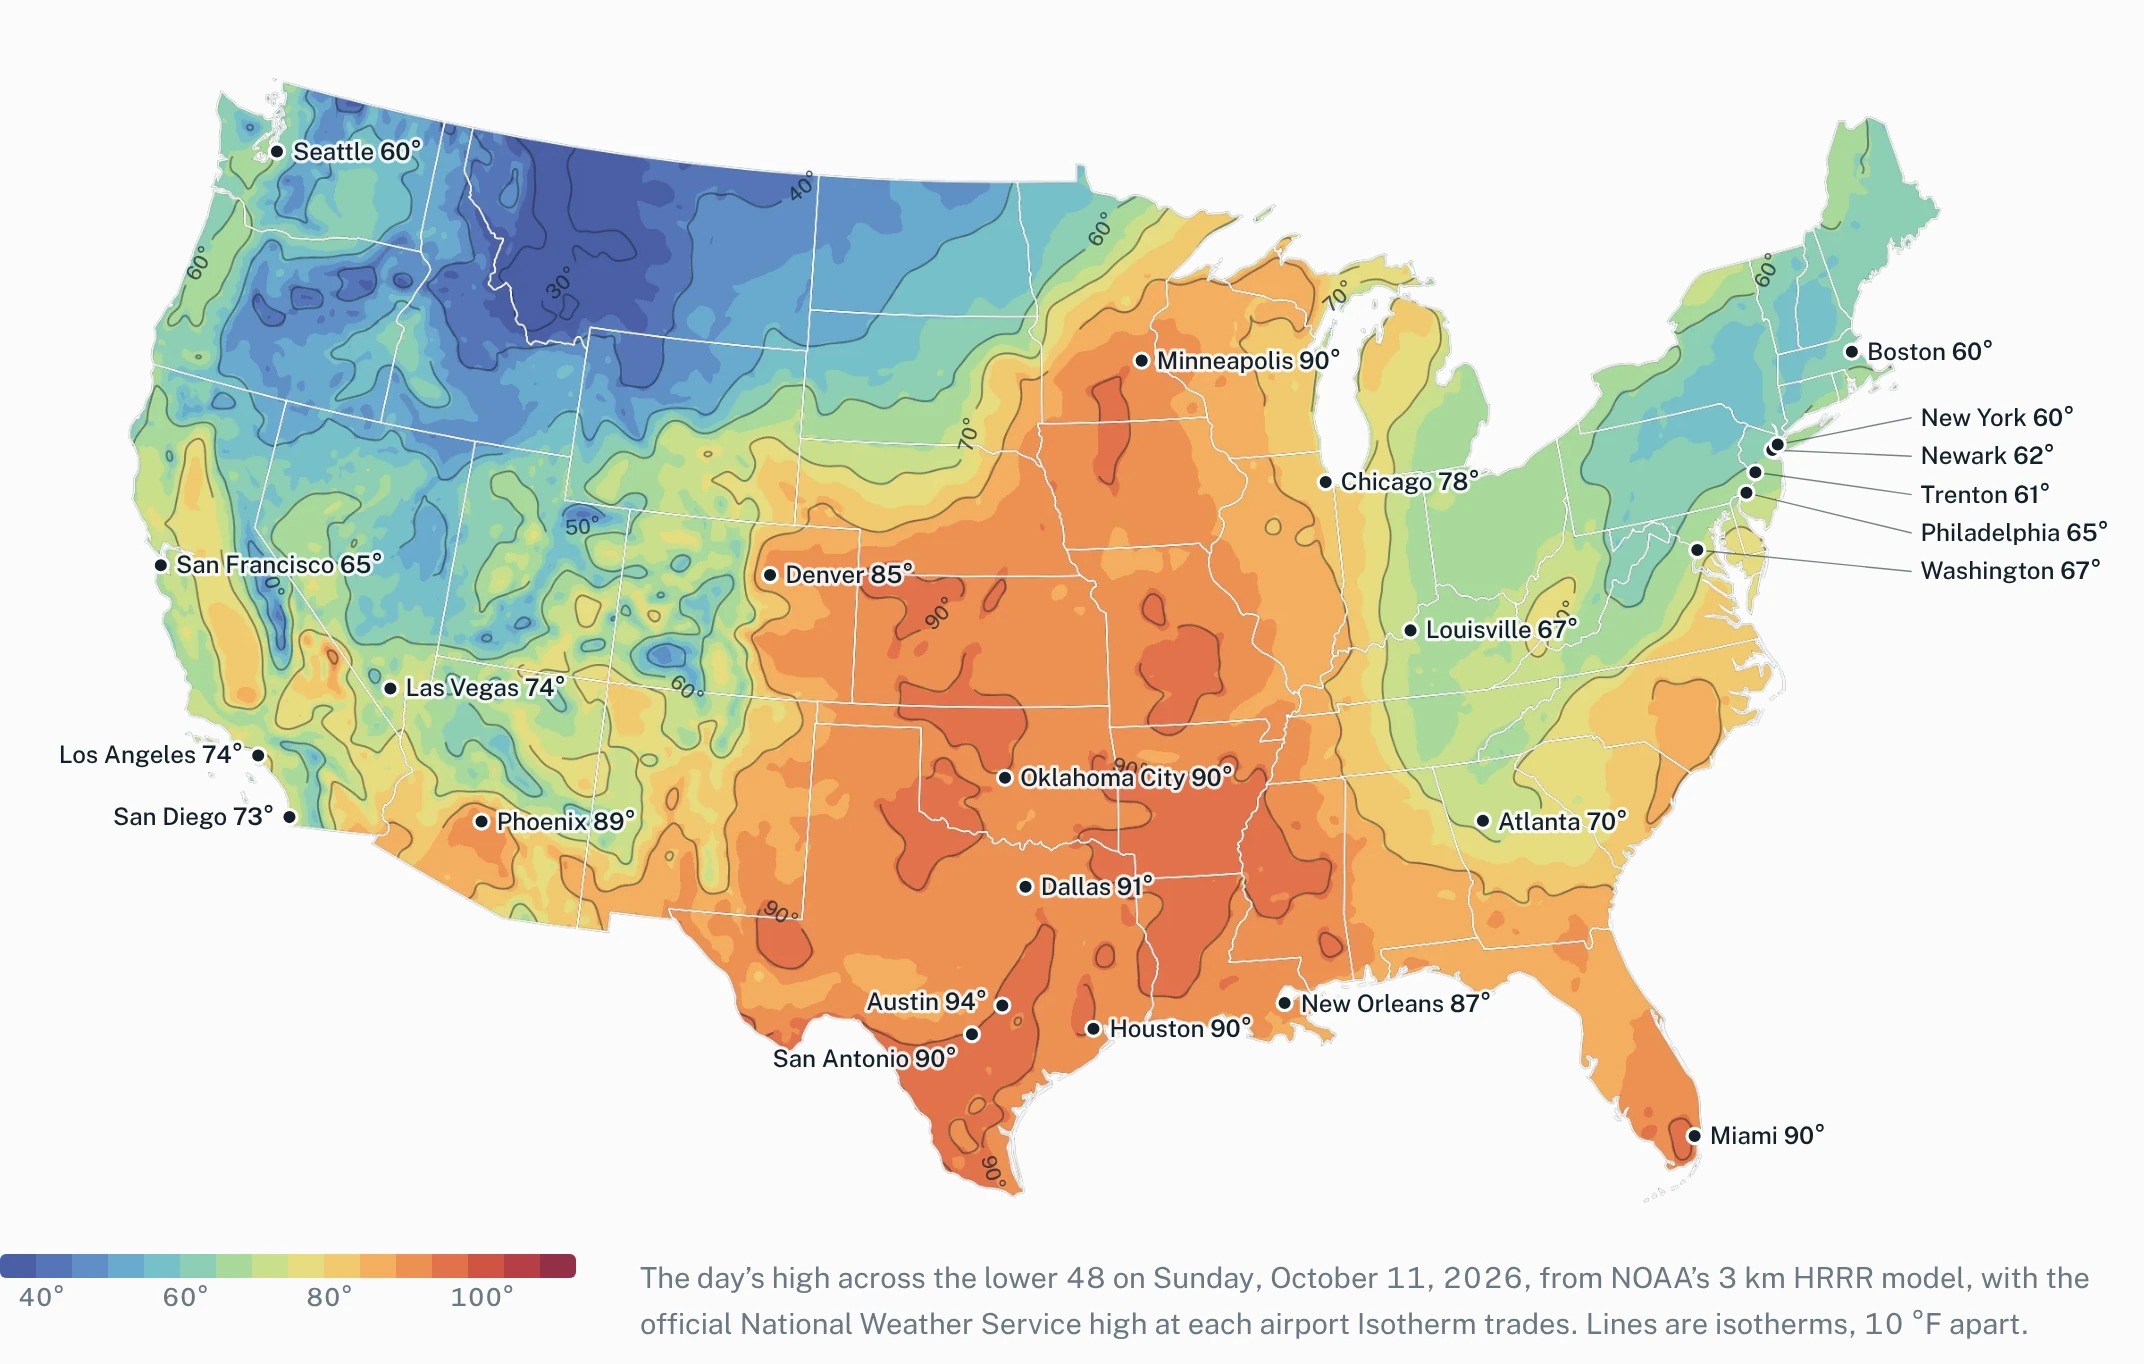
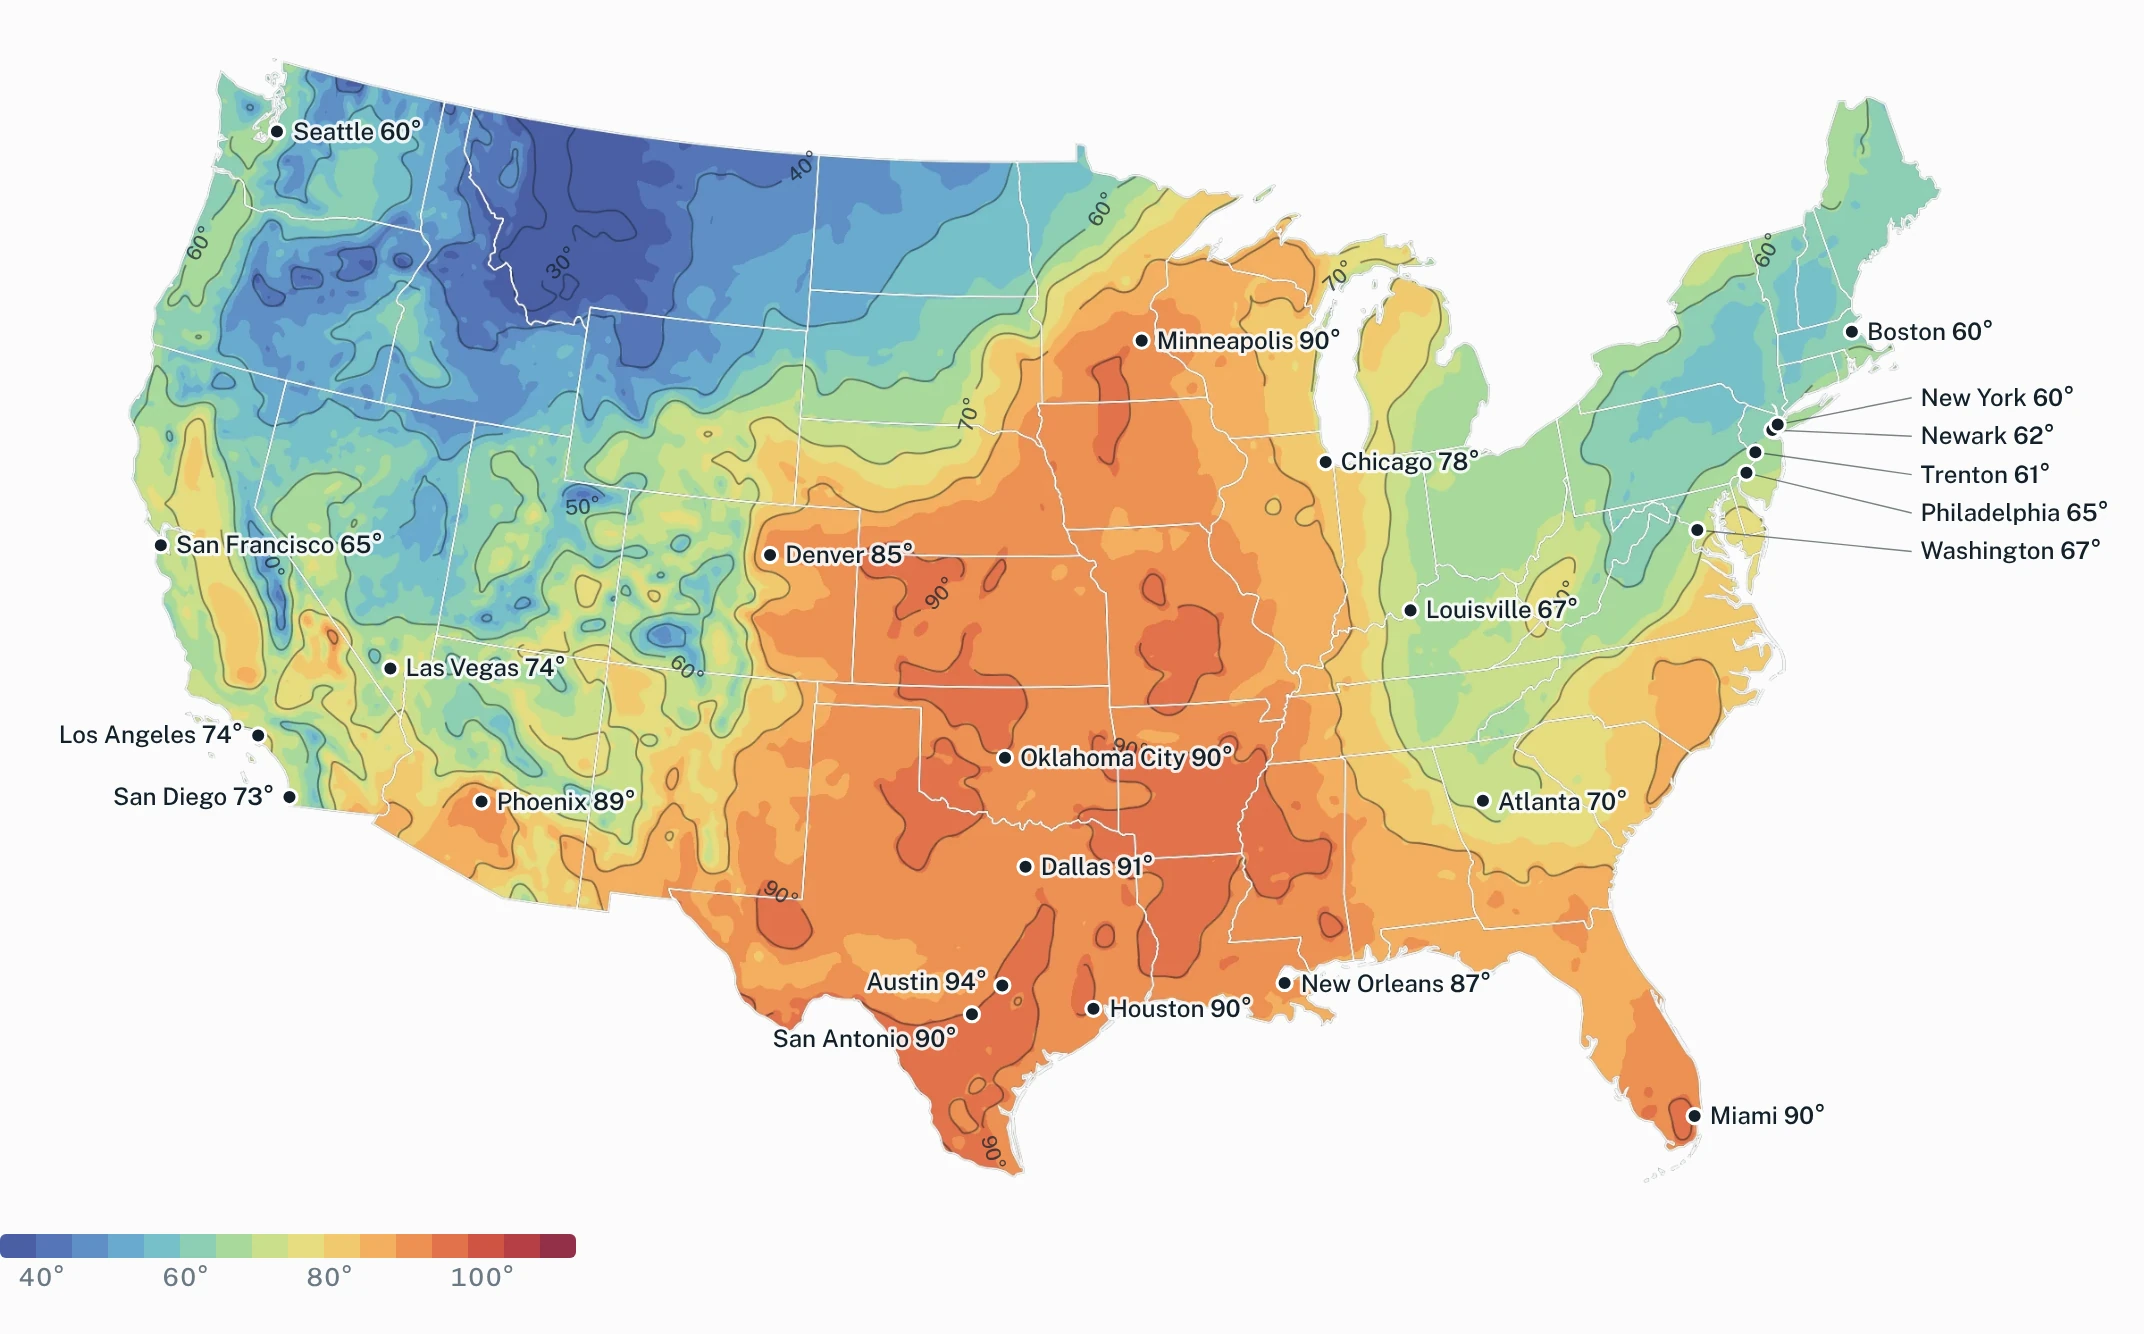
README: single dashboard composite, map image without the repeated caption

diff --git a/README.md b/README.md
@@ -25,11 +25,7 @@ types are working. The trading server publishes encrypted numbers to GitHub ever
 derived from a passcode by PBKDF2), and the page decrypts them on the device, so it stays live on any phone without a
 laptop running anywhere.
 
-<p>
-  <img src="docs/assets/dashboard-desktop.webp" width="66%" alt="Isotherm dashboard on a desktop, shown with made-up sample data">
-  &nbsp;
-  <img src="docs/assets/dashboard-phone.webp" width="28%" alt="Isotherm dashboard on a phone, shown with made-up sample data">
-</p>
+![The Isotherm dashboard on a desktop and a phone, shown with made-up sample data](docs/assets/dashboard-combo.webp)
 
 <sub>Shown with made-up sample data. The live dashboard is private.</sub>
 
